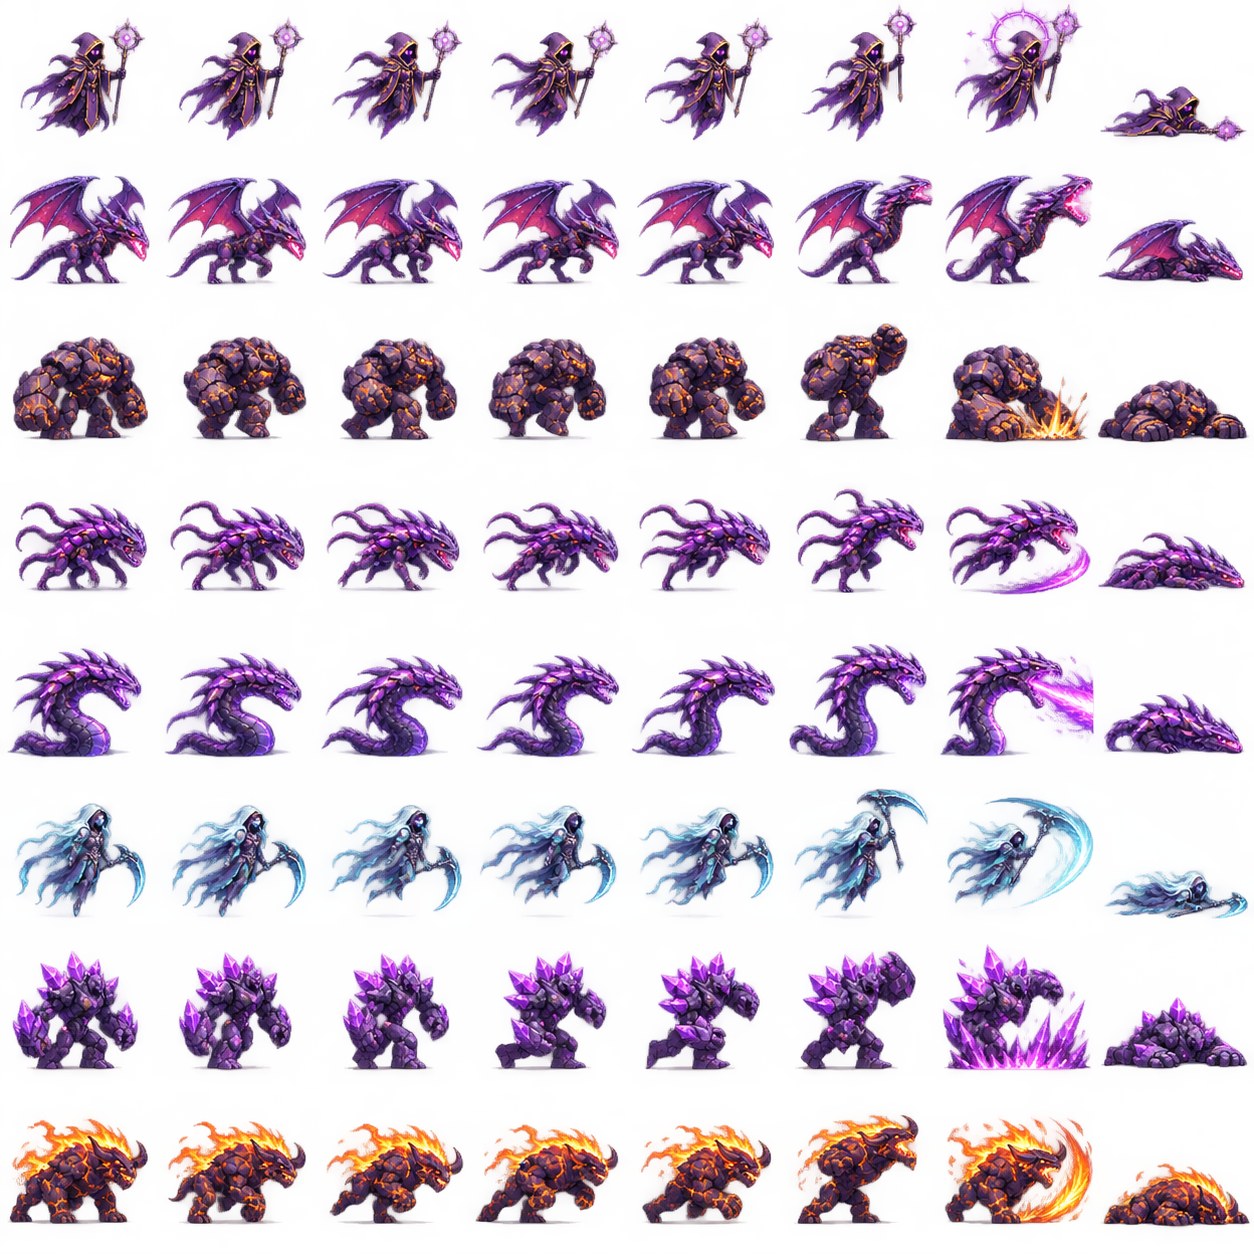
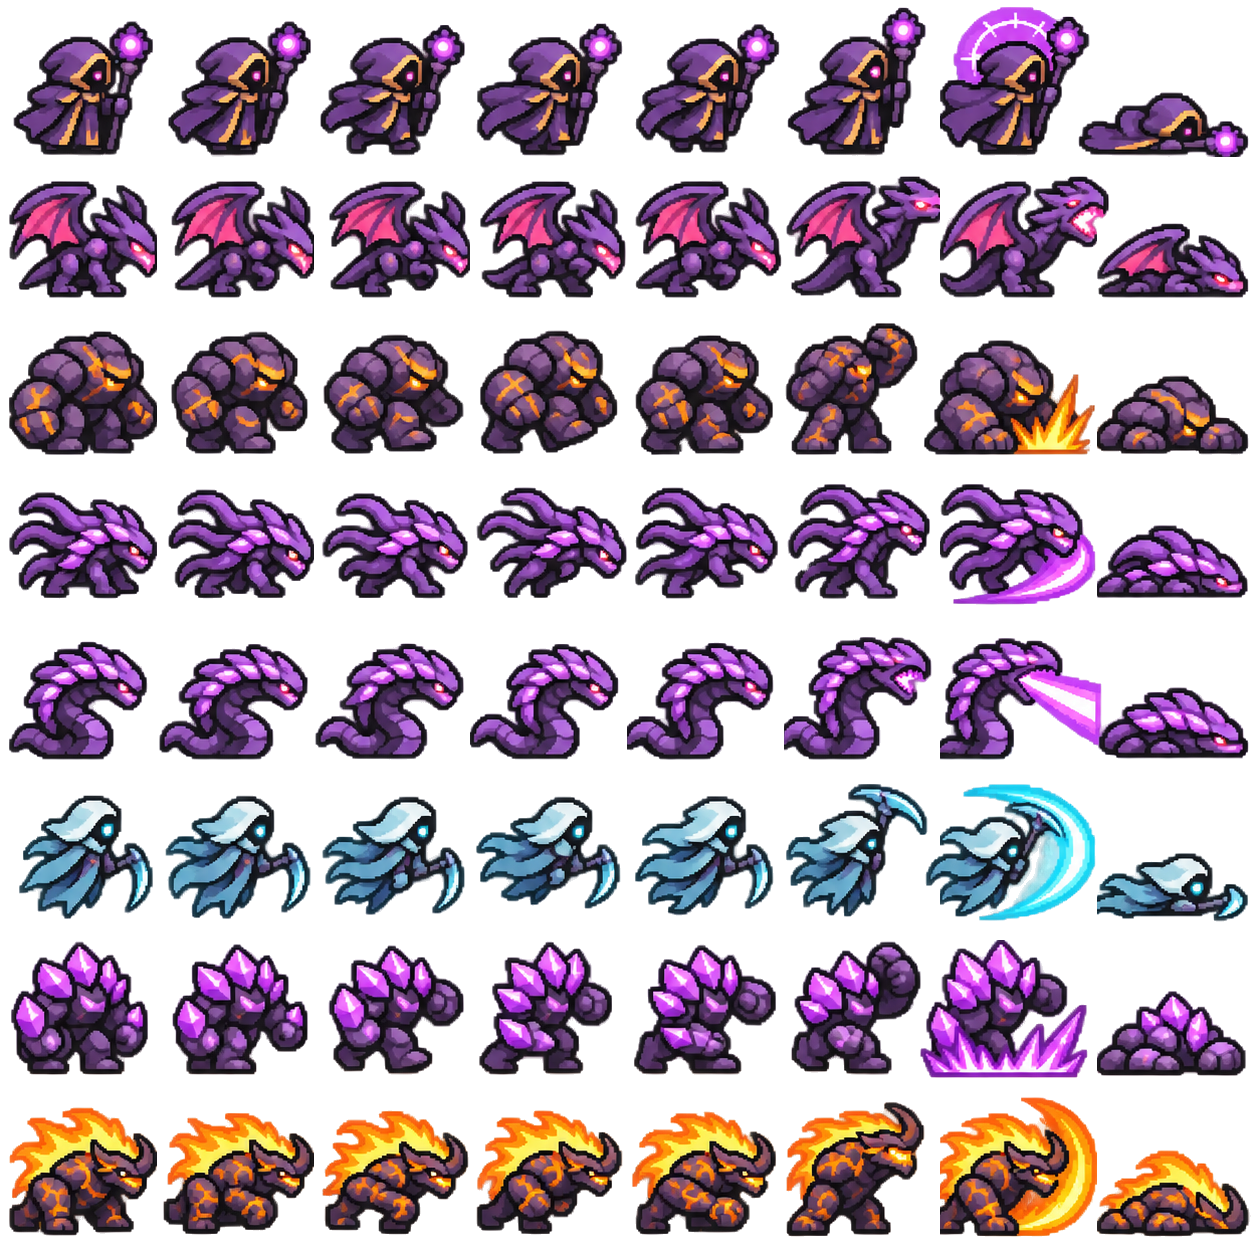
v60: vereinfachte Pixelgrafik für alle 22 Gegner

diff --git a/storm-art.js b/storm-art.js
@@ -11,7 +11,7 @@
  const ROWS={idle:0,run:1,jump:2,attack:3,special:4,hit:5,death:6,reload:7,block:7,aim:3,rise:6};
  const assets=[],enemies=[],metrics=[],heroAssets=[],heroMetrics=[];let battlefield=null,core=null,bossSigil=null;
  const load=src=>new Promise(resolve=>{if(typeof Image==='undefined')return resolve(null);const img=new Image();img.onload=()=>resolve(img);img.onerror=()=>resolve(null);img.src=src;});
- const ready=typeof Image==='undefined'?Promise.resolve():Promise.all([load('./storm-boss-sigil.png?v=59').then(img=>bossSigil=img),...HEROES.map((name,i)=>load('./storm-dissolve-'+name+'.png?v=59').then(img=>dissolveAssets[i]=img)),...Array.from({length:3},(_,i)=>load('./storm-legion-'+i+'.png?v=59').then(img=>{legionAssets[i]=img;if(img)legionMetrics[i]=atlasMetrics(img);})),load('./storm-battlefield-v40.png?v=59').then(img=>battlefield=img),load('./storm-core.png?v=59').then(img=>core=img),...HEROES.map((name,i)=>load('./storm-hero-'+name+'.png?v=59').then(img=>{heroAssets[i]=img;if(img)heroMetrics[i]=atlasMetrics(img);})),...CLASSES.map((name,i)=>load('./storm-'+name+'.png?v=59').then(img=>{assets[i]=img;if(!img)return;metrics[i]=atlasMetrics(img);const tint=document.createElement('canvas');tint.width=img.width;tint.height=img.height;const c=tint.getContext('2d');c.drawImage(img,0,0);c.globalCompositeOperation='source-atop';c.fillStyle='#9a193c';c.globalAlpha=.58;c.fillRect(0,0,img.width,img.height);enemies[i]=tint;}))]);
+ const ready=typeof Image==='undefined'?Promise.resolve():Promise.all([load('./storm-boss-sigil.png?v=60').then(img=>bossSigil=img),...HEROES.map((name,i)=>load('./storm-dissolve-'+name+'.png?v=60').then(img=>dissolveAssets[i]=img)),...Array.from({length:3},(_,i)=>load('./storm-legion-'+i+'.png?v=60').then(img=>{legionAssets[i]=img;if(img)legionMetrics[i]=atlasMetrics(img);})),load('./storm-battlefield-v40.png?v=60').then(img=>battlefield=img),load('./storm-core.png?v=60').then(img=>core=img),...HEROES.map((name,i)=>load('./storm-hero-'+name+'.png?v=60').then(img=>{heroAssets[i]=img;if(img)heroMetrics[i]=atlasMetrics(img);})),...CLASSES.map((name,i)=>load('./storm-'+name+'.png?v=60').then(img=>{assets[i]=img;if(!img)return;metrics[i]=atlasMetrics(img);const tint=document.createElement('canvas');tint.width=img.width;tint.height=img.height;const c=tint.getContext('2d');c.drawImage(img,0,0);c.globalCompositeOperation='source-atop';c.fillStyle='#9a193c';c.globalAlpha=.58;c.fillRect(0,0,img.width,img.height);enemies[i]=tint;}))]);
  function frame(unit,now){let state='idle',progress=0;const action=unit.anim;if(unit.deathAt!==undefined){state='death';progress=(now-unit.deathAt)/850;}else if(now-(unit.hitAt??-10000)<190){state=unit.type===1||unit.hero===3?'block':'hit';progress=(now-unit.hitAt)/190;}else if(action&&now-action.start<action.duration){state=action.state;progress=(now-action.start)/action.duration;}else if(unit.pending){state='aim';progress=.1;}else if((unit.blend||0)<.12&&unit.type>=2&&now-(unit.lastStrikeAt??-10000)<1000&&unit.attack>150){state='reload';progress=(now-unit.lastStrikeAt-300)/700;}else if((unit.blend||0)>.12){state='run';progress=(unit.phase||0)/(Math.PI*2);}else progress=now/1250+(unit.id||0)*.13;
  const loop=state==='run'||state==='idle';let column=loop?Math.floor(((progress%1)+1)%1*8):Math.min(7,Math.max(0,Math.floor(progress*8)));if(state==='rise')column=3-Math.min(3,column);if(state==='aim')column=unit.type===2?1:0;const position=loop?((progress%1)+1)%1*8:Math.min(7,Math.max(0,progress*8));const fraction=position-Math.floor(position);const mix=(state==='aim'||state==='rise')?0:Math.max(0,(fraction-.75)*4);const nextColumn=loop?(column+1)%8:Math.min(7,column+1);return {mix,nextColumn,state,row:(unit.hero>=0?HERO_ROWS:ROWS)[state]??0,column};}
  // Find the actual bottom of the largest opaque connected shape, ignoring detached dust/shadows.
@@ -47,7 +47,7 @@
  function drawHeroEffects(c,run,project){for(const f of run.heroFx||[]){const t=(run.elapsed-f.start)/f.duration;if(t<0||t>=1)continue;const q=project(f.x,f.z),color=HERO_COLORS[f.hero],r=(f.ultimate?30:20)*Math.sin(t*Math.PI);c.save();c.globalAlpha=(1-t)*.75;c.strokeStyle=color;c.fillStyle=color;c.lineWidth=f.ultimate?2:1.2;if(f.hero===0){for(let i=0;i<8;i++){const a=i*Math.PI/4;c.beginPath();c.moveTo(q.x+Math.cos(a)*r*.5,q.y-15+Math.sin(a)*r*.5);c.lineTo(q.x+Math.cos(a)*r,q.y-15+Math.sin(a)*r);c.stroke();}}if(f.hero===1){let from=q;for(const target of f.targets){const to=project(target.x,target.z);c.beginPath();c.moveTo(from.x,from.y-17);c.lineTo((from.x+to.x)/2-3, (from.y+to.y)/2-22);c.lineTo((from.x+to.x)/2+3,(from.y+to.y)/2-12);c.lineTo(to.x,to.y-17);c.stroke();from=to;}}if(f.hero===2){for(let i=0;i<3;i++){c.beginPath();c.ellipse(q.x,q.y-2,r+i*3,(r+i*3)*.3,-t*.5,0,Math.PI*2);c.stroke();}}if(f.hero===3){for(const target of f.targets){const to=project(target.x,target.z);c.beginPath();for(let i=0;i<6;i++){const a=i*Math.PI/3-Math.PI/2;const x=to.x+Math.cos(a)*8,y=to.y-15+Math.sin(a)*12;i?c.lineTo(x,y):c.moveTo(x,y);}c.closePath();c.stroke();}}if(f.hero===4){for(let i=0;i<8;i++){const a=i*Math.PI/4;c.beginPath();c.moveTo(q.x+Math.cos(a)*r,q.y);c.lineTo(q.x+Math.cos(a)*r+Math.sin(t*15+i)*3,q.y-8-Math.sin(t*Math.PI)*9);c.stroke();}}c.restore();}}
  // The 120-frame originals are independent effects, anchored to the hero's feet.
  function dissolveFrame(elapsed,reverse=false){if(!Number.isFinite(elapsed)||elapsed<0||elapsed>=DISSOLVE.duration)return null;const frame=Math.min(119,Math.floor(elapsed*DISSOLVE.fps/1000));return reverse?119-frame:frame;}
- function drawGuardianDissolve(c,hero,elapsed,q,scale=1,face=1,symbolOnly=false,reverse=false){const frame=dissolveFrame(elapsed,reverse);if(frame===null||!Number.isInteger(hero)||hero<0||hero>4||!Number.isFinite(scale)||scale<=0)return false;const collection=symbolOnly?symbolDissolveAssets:dissolveAssets,img=collection[hero];if(!img){if(symbolOnly&&collection[hero]===undefined){collection[hero]=false;load('./storm-dissolve-'+HEROES[hero]+'-symbol.png?v=59').then(im=>collection[hero]=im);}return false;}const cell=DISSOLVE.cell,size=cell*scale;c.save();c.translate(q.x,q.y);c.scale(face===-1?-1:1,1);c.imageSmoothingEnabled=false;c.drawImage(img,(frame%10)*cell,Math.floor(frame/10)*cell,cell,cell,-64*scale,-111*scale,size,size);c.restore();return true;}
+ function drawGuardianDissolve(c,hero,elapsed,q,scale=1,face=1,symbolOnly=false,reverse=false){const frame=dissolveFrame(elapsed,reverse);if(frame===null||!Number.isInteger(hero)||hero<0||hero>4||!Number.isFinite(scale)||scale<=0)return false;const collection=symbolOnly?symbolDissolveAssets:dissolveAssets,img=collection[hero];if(!img){if(symbolOnly&&collection[hero]===undefined){collection[hero]=false;load('./storm-dissolve-'+HEROES[hero]+'-symbol.png?v=60').then(im=>collection[hero]=im);}return false;}const cell=DISSOLVE.cell,size=cell*scale;c.save();c.translate(q.x,q.y);c.scale(face===-1?-1:1,1);c.imageSmoothingEnabled=false;c.drawImage(img,(frame%10)*cell,Math.floor(frame/10)*cell,cell,cell,-64*scale,-111*scale,size,size);c.restore();return true;}
  function drawGuardianSymbol(c,hero,elapsed,q,scale=1){return drawGuardianDissolve(c,hero,elapsed,q,scale,1,true);}
  function drawGuardianMaterialization(c,hero,elapsed,q,scale=1,face=1){return drawGuardianDissolve(c,hero,elapsed,q,scale,face,false,true);}
  function drawHeroArrivals(c,run,project){for(const f of run.heroArrivals||[]){const normalHeight=metrics[0]?.[0].bodyHeight||.65,bodyHeight=heroMetrics[f.hero]?.[0].bodyHeight||.65,scale=spriteSize(f.unit,normalHeight,bodyHeight)*bodyHeight/DISSOLVE.characterHeight;drawGuardianMaterialization(c,f.hero,run.elapsed-f.start,project(f.x,f.z),scale,f.unit.face||1);}}

diff --git a/sw.js b/sw.js
@@ -1,7 +1,7 @@
 'use strict';
-const VERSION='v59';
+const VERSION='v60';
 const CACHE='sternensammler-'+VERSION;
-const ASSETS=['./storm-boss-sigil.png?v=59','./storm-dissolve-solaris.png?v=59','./storm-dissolve-solaris-symbol.png?v=59','./storm-dissolve-volt.png?v=59','./storm-dissolve-volt-symbol.png?v=59','./storm-dissolve-polaris.png?v=59','./storm-dissolve-polaris-symbol.png?v=59','./storm-dissolve-aegis.png?v=59','./storm-dissolve-aegis-symbol.png?v=59','./storm-dissolve-phoenix.png?v=59','./storm-dissolve-phoenix-symbol.png?v=59','./','./index.html','./style.css?v=59','./app.js?v=59','./game.js?v=59','./snake.js?v=59','./trail.js?v=59','./nova.js?v=59','./storm.js?v=59','./storm-art.js?v=59','./storm-enemies.js?v=59','./storm-layout.js?v=59','./storm-legion-0.png?v=59','./storm-legion-1.png?v=59','./storm-legion-2.png?v=59','./storm-battlefield-v40.png?v=59','./storm-core.png?v=59','./storm-hero-solaris.png?v=59','./storm-hero-volt.png?v=59','./storm-hero-polaris.png?v=59','./storm-hero-aegis.png?v=59','./storm-hero-phoenix.png?v=59','./storm-sword.png?v=59','./storm-shield.png?v=59','./storm-sniper.png?v=59','./storm-rocket.png?v=59','./storm-plasma.png?v=59','./leaderboard.js?v=59','./leaderboard-config.js?v=59','./dodge.js?v=59','./music.js?v=59','./MUSIC-CREDITS.txt','./battle-strings-low.m4a?v=59','./battle-strings-high.m4a?v=59','./battle-strings-pad.m4a?v=59','./battle-cello.m4a?v=59','./battle-horn.m4a?v=59','./battle-horn-stab.m4a?v=59','./battle-trumpet.m4a?v=59','./battle-drum.m4a?v=59','./battle-snare.m4a?v=59','./battle-timpani.m4a?v=59','./battle-cymbal.m4a?v=59','./offline.js?v=59','./manifest.webmanifest?v=59','./icon.svg?v=59','./icon-180.png?v=59','./icon-192.png?v=59','./icon-512.png?v=59'];
+const ASSETS=['./storm-boss-sigil.png?v=60','./storm-dissolve-solaris.png?v=60','./storm-dissolve-solaris-symbol.png?v=60','./storm-dissolve-volt.png?v=60','./storm-dissolve-volt-symbol.png?v=60','./storm-dissolve-polaris.png?v=60','./storm-dissolve-polaris-symbol.png?v=60','./storm-dissolve-aegis.png?v=60','./storm-dissolve-aegis-symbol.png?v=60','./storm-dissolve-phoenix.png?v=60','./storm-dissolve-phoenix-symbol.png?v=60','./','./index.html','./style.css?v=60','./app.js?v=60','./game.js?v=60','./snake.js?v=60','./trail.js?v=60','./nova.js?v=60','./storm.js?v=60','./storm-art.js?v=60','./storm-enemies.js?v=60','./storm-layout.js?v=60','./storm-legion-0.png?v=60','./storm-legion-1.png?v=60','./storm-legion-2.png?v=60','./storm-battlefield-v40.png?v=60','./storm-core.png?v=60','./storm-hero-solaris.png?v=60','./storm-hero-volt.png?v=60','./storm-hero-polaris.png?v=60','./storm-hero-aegis.png?v=60','./storm-hero-phoenix.png?v=60','./storm-sword.png?v=60','./storm-shield.png?v=60','./storm-sniper.png?v=60','./storm-rocket.png?v=60','./storm-plasma.png?v=60','./leaderboard.js?v=60','./leaderboard-config.js?v=60','./dodge.js?v=60','./music.js?v=60','./MUSIC-CREDITS.txt','./battle-strings-low.m4a?v=60','./battle-strings-high.m4a?v=60','./battle-strings-pad.m4a?v=60','./battle-cello.m4a?v=60','./battle-horn.m4a?v=60','./battle-horn-stab.m4a?v=60','./battle-trumpet.m4a?v=60','./battle-drum.m4a?v=60','./battle-snare.m4a?v=60','./battle-timpani.m4a?v=60','./battle-cymbal.m4a?v=60','./offline.js?v=60','./manifest.webmanifest?v=60','./icon.svg?v=60','./icon-180.png?v=60','./icon-192.png?v=60','./icon-512.png?v=60'];
 const absolute=path=>new URL(path,self.registration.scope).href;
 async function complete(){const cache=await caches.open(CACHE);const entries=await Promise.all(ASSETS.map(path=>cache.match(absolute(path))));return entries.every(response=>response&&response.ok);}
 async function download(){const cache=await caches.open(CACHE);await cache.addAll(ASSETS.map(path=>new Request(absolute(path),{cache:'reload'})));if(!await complete())throw new Error('Incomplete download');}

diff --git a/intro.js b/intro.js
@@ -24,7 +24,7 @@
  function mount({onEnd=()=>{},onSound=()=>{}}={}){
   const overlay=document.getElementById('story-intro'),canvas=document.getElementById('intro-canvas'),c=canvas.getContext('2d'),app=document.querySelector('main.app'),skip=document.getElementById('intro-skip'),audioButton=document.getElementById('intro-audio'),title=document.getElementById('intro-title'),caption=document.getElementById('intro-caption'),logo=document.getElementById('intro-logo'),progress=document.getElementById('intro-progress');
   const pictures={};let raf=0,active=false,lastIndex=-1,audio=null,music=null,audible=false,previousFocus=null,narrator=null,audioRequest=0,soundStarted=false,currentElapsed=0;const timeline=clock();
-  const ready=Promise.all(IMAGES.map(name=>new Promise(resolve=>{const img=new Image();pictures[name]=img;img.onload=img.onerror=resolve;img.src='./intro-'+name+'.jpg?v=59';})));
+  const ready=Promise.all(IMAGES.map(name=>new Promise(resolve=>{const img=new Image();pictures[name]=img;img.onload=img.onerror=resolve;img.src='./intro-'+name+'.jpg?v=60';})));
   const reduced=window.matchMedia?.('(prefers-reduced-motion: reduce)').matches;
   function cover(img,s,p){if(!img?.complete||!img.naturalWidth)return;const crop=s.crop||[0,0,1,1],sx=crop[0]*img.width,sy=crop[1]*img.height,sw=crop[2]*img.width,sh=crop[3]*img.height;const scale=Math.max(1280/sw,720/sh)*(reduced?1:1.025+.045*p),w=sw*scale,h=sh*scale,x=(1280-w)/2+(reduced?0:Math.sin(p*2)*7),y=(720-h)*.43;c.drawImage(img,sx,sy,sw,sh,x,y,w,h);
    // Local foreground motion: a gently moving cloak/arm, separate from the camera move.
@@ -79,7 +79,7 @@
   function render(s){currentElapsed=s.elapsed;const {scene,progress:p,elapsed}=s,t=reduced?0:elapsed/1000;c.clearRect(0,0,1280,720);c.fillStyle='#0b0719';c.fillRect(0,0,1280,720);c.save();if(!reduced&&scene.fx==='battle'){const hit=Math.pow(Math.max(0,Math.sin(t*4.5)),12);c.translate(Math.sin(t*91)*hit*4,Math.cos(t*83)*hit*3);}cover(pictures[scene.image],scene,p);effects(scene,t,p);if(scene.roster)roster(scene,t,p);if(scene.fx==='battle'&&!scene.roster){for(const a of choreography('combat',p,t))actor(a.item,a.x,a.y,a.scale,t,a.enemy,a.action||'run');if(!reduced)combatFX(p,t);}c.restore();
    const vignette=c.createRadialGradient(640,320,200,640,360,800);vignette.addColorStop(0,'#08041100');vignette.addColorStop(1,'#080411b8');c.fillStyle=vignette;c.fillRect(0,0,1280,720);
    const fade=reduced?0:Math.max(0,1-p*9,1-(1-p)*9);if(fade){c.fillStyle='rgba(7,4,15,'+fade+')';c.fillRect(0,0,1280,720);}
-   if(lastIndex!==s.index){lastIndex=s.index;overlay.dataset.scene=String(s.index);overlay.dataset.title=scene.title;title.textContent=scene.title;caption.textContent=scene.text;logo.hidden=scene.fx!=='logo';document.getElementById('intro-copy').hidden=scene.fx==='logo';overlay.style.setProperty('--scene-art','url("./intro-'+scene.image+'.jpg?v=59")');}
+   if(lastIndex!==s.index){lastIndex=s.index;overlay.dataset.scene=String(s.index);overlay.dataset.title=scene.title;title.textContent=scene.title;caption.textContent=scene.text;logo.hidden=scene.fx!=='logo';document.getElementById('intro-copy').hidden=scene.fx==='logo';overlay.style.setProperty('--scene-art','url("./intro-'+scene.image+'.jpg?v=60")');}
    progress.style.transform='scaleX('+(elapsed/DURATION)+')';if(music&&audible)music.update(1+Math.floor(elapsed/1800),20000,elapsed*12,{boss:elapsed>21000,phase:elapsed>24000?3:1,rest:elapsed<6000||elapsed>=27000});
   }
   function tick(now){if(!active)return;const s=timeline.step(now,!document.hidden);render(s);if(s.ended){finish();return;}raf=requestAnimationFrame(tick);}

diff --git a/index.html b/index.html
@@ -7,8 +7,8 @@
   <meta name="apple-mobile-web-app-title" content="Sterne">
   <meta name="description" content="Ein kleines Spiel für große Sternensammler. Sterne antippen oder frei ausweichen und möglichst lange überleben.">
   <title>Sterne</title>
-  <link rel="manifest" href="./manifest.webmanifest?v=59"><link rel="icon" href="./icon.svg?v=59" type="image/svg+xml">
-  <link rel="apple-touch-icon" href="./icon-180.png?v=59"><link rel="stylesheet" href="./style.css?v=59">
+  <link rel="manifest" href="./manifest.webmanifest?v=60"><link rel="icon" href="./icon.svg?v=60" type="image/svg+xml">
+  <link rel="apple-touch-icon" href="./icon-180.png?v=60"><link rel="stylesheet" href="./style.css?v=60">
 </head>
 <body>
 <svg class="svg-library" xmlns="http://www.w3.org/2000/svg" aria-hidden="true"><defs>
@@ -67,5 +67,5 @@
 <dialog id="install-dialog"><div class="dialog-mark"><svg class="ui-icon" aria-hidden="true"><use href="#download"/></svg></div><h2>App laden</h2><p id="download-status" role="status" aria-live="polite">Wird gespeichert …</p><div id="install-steps"><ol><li>In <strong>Safari</strong>: <strong>Teilen</strong> öffnen.</li><li><strong>Zum Home-Bildschirm</strong> wählen.</li><li><strong>Als Web-App öffnen</strong> aktivieren und <strong>Hinzufügen</strong> tippen.</li></ol><p class="small-note">Die App einmal öffnen, bis „Offline bereit“ erscheint. Danach geht’s auch im Flugmodus.</p></div><button id="download-retry" class="primary" hidden>Erneut laden</button><button id="native-install" class="primary" hidden>Installieren</button><button id="close-install" class="text-button">Fertig</button></dialog>
 
 
-<script src="./leaderboard-config.js?v=59" defer></script><script src="./leaderboard.js?v=59" defer></script><script src="./storm-layout.js?v=59"></script><script src="./storm-enemies.js?v=59"></script><script src="./storm-art.js?v=59"></script><script src="./storm.js?v=59" defer></script><script src="./nova.js?v=59" defer></script><script src="./trail.js?v=59" defer></script><script src="./snake.js?v=59" defer></script><script src="./game.js?v=59" defer></script><script src="./dodge.js?v=59" defer></script><script src="./music.js?v=59" defer></script><script src="./app.js?v=59" defer></script><script src="./offline.js?v=59" defer></script>
+<script src="./leaderboard-config.js?v=60" defer></script><script src="./leaderboard.js?v=60" defer></script><script src="./storm-layout.js?v=60"></script><script src="./storm-enemies.js?v=60"></script><script src="./storm-art.js?v=60"></script><script src="./storm.js?v=60" defer></script><script src="./nova.js?v=60" defer></script><script src="./trail.js?v=60" defer></script><script src="./snake.js?v=60" defer></script><script src="./game.js?v=60" defer></script><script src="./dodge.js?v=60" defer></script><script src="./music.js?v=60" defer></script><script src="./app.js?v=60" defer></script><script src="./offline.js?v=60" defer></script>
 </body></html>

diff --git a/music.js b/music.js
@@ -81,7 +81,7 @@
     prepareStorm(){
       if(this.sampleReady)return this.sampleReady;
       if(!this.fetchSample||!this.ctx.decodeAudioData)return Promise.resolve(false);
-      this.sampleReady=Promise.all(Object.keys(BATTLE_SAMPLES).map(async name=>{try{const response=await this.fetchSample('./battle-'+name+'.m4a?v=59');if(!response.ok)throw new Error('Audio download failed');const buffer=await this.ctx.decodeAudioData(await response.arrayBuffer());this.sampleBank[name]=buffer;return true;}catch{return false;}})).then(results=>{this.samplesLoaded=results.every(Boolean);if(!this.samplesLoaded)this.sampleReady=null;return this.samplesLoaded;});return this.sampleReady;
+      this.sampleReady=Promise.all(Object.keys(BATTLE_SAMPLES).map(async name=>{try{const response=await this.fetchSample('./battle-'+name+'.m4a?v=60');if(!response.ok)throw new Error('Audio download failed');const buffer=await this.ctx.decodeAudioData(await response.arrayBuffer());this.sampleBank[name]=buffer;return true;}catch{return false;}})).then(results=>{this.samplesLoaded=results.every(Boolean);if(!this.samplesLoaded)this.sampleReady=null;return this.samplesLoaded;});return this.sampleReady;
     }
     instrument(name,pitch,time,duration,volume,pan=0){
       const buffer=this.sampleBank[name],meta=BATTLE_SAMPLES[name];

diff --git a/intro-audio.js b/intro-audio.js
@@ -2,7 +2,7 @@
 ((root,factory)=>{const api=factory();if(typeof module==='object'&&module.exports)module.exports=api;else root.StarIntroAudio=api;})(globalThis,()=>{
  function create(context,fetchAudio=globalThis.fetch?.bind(globalThis)){
   let buffer=null,source=null;const gain=context.createGain();gain.gain.value=1;gain.connect(context.destination);
-  const ready=Promise.resolve().then(async()=>{const response=await fetchAudio('./intro-narration.m4a?v=59');if(!response.ok)throw new Error('Narration unavailable');buffer=await context.decodeAudioData(await response.arrayBuffer());return buffer;});
+  const ready=Promise.resolve().then(async()=>{const response=await fetchAudio('./intro-narration.m4a?v=60');if(!response.ok)throw new Error('Narration unavailable');buffer=await context.decodeAudioData(await response.arrayBuffer());return buffer;});
   function stop(){if(source){try{source.stop();}catch{}source.disconnect();source=null;}}
   function play(ms){stop();if(!buffer)return false;const offset=Math.max(0,Number.isFinite(ms)?ms/1000:0);if(offset>=Math.min(30,buffer.duration))return false;source=context.createBufferSource();source.buffer=buffer;source.connect(gain);source.start(context.currentTime+.015,offset);return true;}
   return {ready,play,stop};

diff --git a/offline.js b/offline.js
@@ -1,6 +1,6 @@
 'use strict';
 (() => {
-  const VERSION='v59', $=id=>document.getElementById(id);
+  const VERSION='v60', $=id=>document.getElementById(id);
   const standalone=()=>window.matchMedia('(display-mode: standalone)').matches||navigator.standalone===true;
   let preparing, promptEvent, ready=false, updatePending=false;
   function status(text,ok=false){ready=ok;$('offline-status').textContent=text;$('offline-status').dataset.ready=String(ok);$('download-status').textContent=ok?'Auf diesem Gerät gespeichert.':text;$('download-status').dataset.ready=String(ok);$('download-retry').hidden=ok||text==='Wird gespeichert …';$('install').hidden=ok&&standalone();$('install-steps').hidden=standalone();$('native-install').disabled=!ok;}
